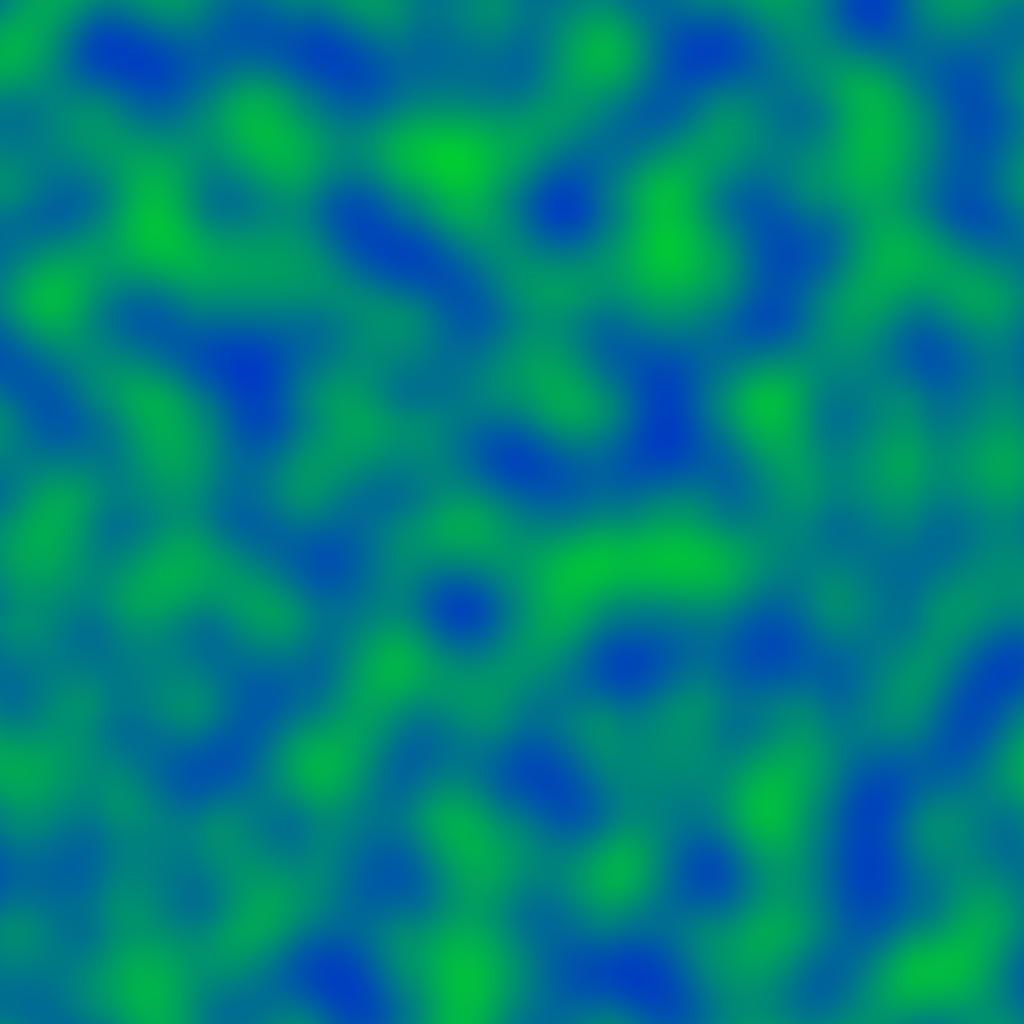
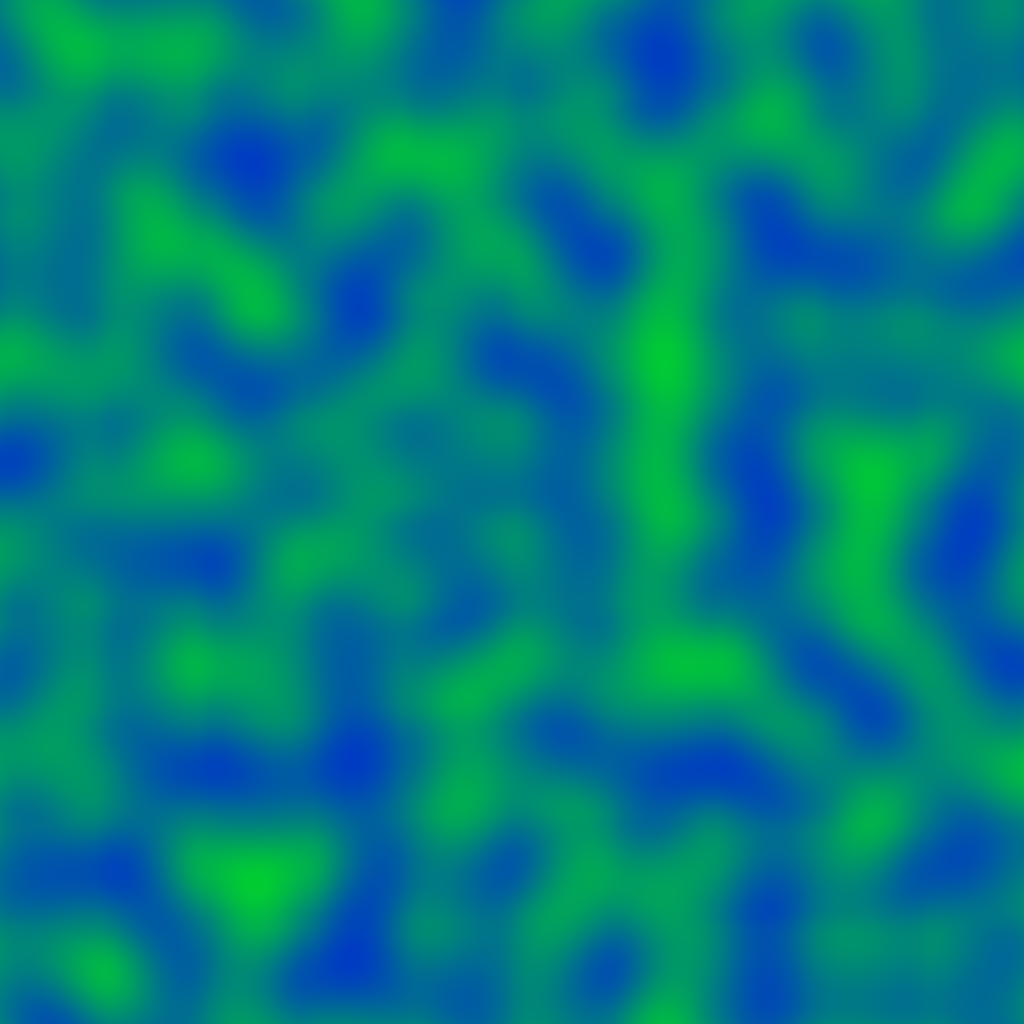
RadialNoise :D is it really a noise tho

diff --git a/feature showcase/ProceduralTerrainGenerator/src/main/java/net/mega2223/aguaengine3d/featureshowcase/proceduralterrain/ProceduralTerrainGenerator.java b/feature showcase/ProceduralTerrainGenerator/src/main/java/net/mega2223/aguaengine3d/featureshowcase/proceduralterrain/ProceduralTerrainGenerator.java
@@ -8,6 +8,7 @@ import net.mega2223.aguaengine3d.graphics.objects.modeling.procedural.StructureU
 import net.mega2223.aguaengine3d.graphics.objects.modeling.procedural.buildinggenerator.ProceduralBuilding;
 import net.mega2223.aguaengine3d.graphics.objects.modeling.procedural.noisegenerator.Noise;
 import net.mega2223.aguaengine3d.graphics.objects.modeling.procedural.noisegenerator.PerlinNoise;
+import net.mega2223.aguaengine3d.graphics.objects.modeling.procedural.noisegenerator.RadialNoise;
 import net.mega2223.aguaengine3d.graphics.objects.modeling.procedural.noisegenerator.StackedNoises;
 import net.mega2223.aguaengine3d.graphics.objects.shadering.TextureShaderProgram;
 import net.mega2223.aguaengine3d.graphics.utils.RenderingManager;
@@ -95,10 +96,14 @@ public class ProceduralTerrainGenerator {
         perlin4.setTranslations(0,0,.5F,.5F);
         perlin4.setHeightScale(3F/4);
 
-        stackedNoises.add(perlin1);
-        stackedNoises.add(perlin2);
-        stackedNoises.add(perlin3);
-        stackedNoises.add(perlin4);
+//        stackedNoises.add(perlin1);
+//        stackedNoises.add(perlin2);
+//        stackedNoises.add(perlin3);
+//        stackedNoises.add(perlin4);
+        RadialNoise radial1 = new RadialNoise(0, 0, 0.4F, RadialNoise.LINEAR,true);
+        radial1.setTranslations(0,0,1,1);
+        radial1.setDislocation(.5F);
+        stackedNoises.add(radial1);
 
         ProceduralBuilding build = new ProceduralBuilding(Utils.PROCEDURAL_BUILDINGS_DIR+"\\BrickStyle1",new TextureShaderProgram());
         int[][] map = new int[16][16];

diff --git a/feature showcase/ProdeduralBuildingGenerator/src/main/java/net/mega2223/aguaengine3d/featureshowcase/ProceduralBuildingGenerator/Run.java b/feature showcase/ProdeduralBuildingGenerator/src/main/java/net/mega2223/aguaengine3d/featureshowcase/ProceduralBuildingGenerator/Run.java
@@ -66,9 +66,9 @@ public class Run {
 
         //terrain setup
         int[][] map = {
-                {3,3,3,1,2,2,2,1,0,0,0,1,0,0,0},
-                {3,3,3,1,2,2,2,1,0,0,0,1,0,0,0},
-                {3,3,3,1,2,2,2,1,0,0,0,1,0,0,0},
+                {3,3,3,1,2,2,2,1,16,16,16,1,17,17,17},
+                {3,3,3,1,2,2,2,1,16,16,16,1,17,17,17},
+                {3,3,3,1,2,2,2,1,16,16,16,1,17,17,17},
                 {1,1,1,1,1,1,1,1,1,1,1,1,1,1,1},
                 {4,4,4,1,5,5,5,1,6,6,6,1,7,7,7},
                 {4,4,4,1,5,5,5,1,6,6,6,1,7,7,7},
@@ -87,7 +87,7 @@ public class Run {
         ProceduralBuilding brick = new ProceduralBuilding(Utils.PROCEDURAL_BUILDINGS_DIR+"\\BrickStyle1");
         gen.setCoords(-225,0,-225);
         context.addObject(gen);
-        for (int i = 2; i < 16; i++) {
+        for (int i = 2; i < 18; i++) {
             System.out.println(i);
             TexturedModel gen2 = brick.generate(map, i,10,30F);
             gen2.setCoords(-225,0,-225);
